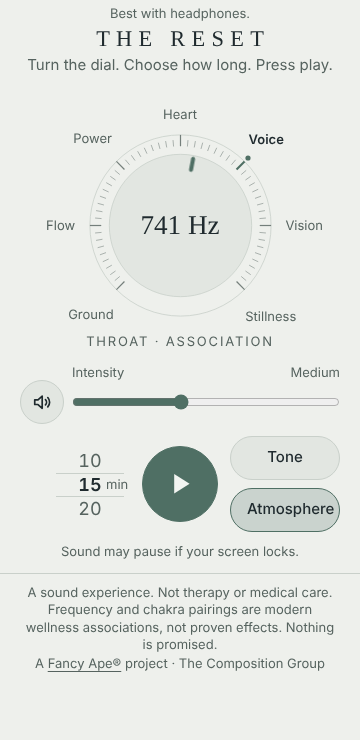
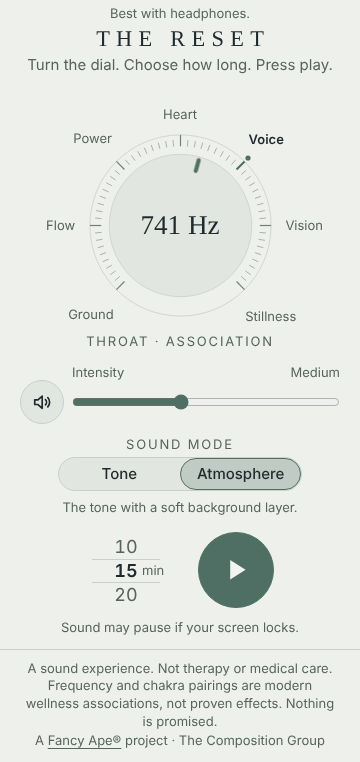
Sound mode: slim segmented control under Intensity with caption; bottom row is wheel and Play
Claude-Session: https://claude.ai/code/session_01GARUu4aZWZHH9xWAKDJbQb

diff --git a/index.html b/index.html
@@ -86,9 +86,9 @@ button{cursor:pointer}
 .icon-btn{width:2.75rem;height:2.75rem;flex:none;border:1px solid var(--line);background:var(--surface);border-radius:50%;display:grid;place-items:center;padding:0}
 .icon-btn svg{width:1.4rem;height:1.4rem}
 .icon-btn[data-muted="true"]{border-color:var(--accent);background:color-mix(in srgb,var(--accent) 22%,transparent)}
-.transport{display:grid;grid-template-columns:1fr auto 1fr;align-items:center;gap:.75rem;margin-top:var(--sp)}
+.transport{display:flex;justify-content:center;align-items:center;gap:2rem;margin-top:calc(var(--sp) * 1.4)}
 /* time wheel: three visible rows (one faded value above and below), as tall as the row it sits in. The box itself has 12px of invisible padding top and bottom (cancelled by negative margins) so each half is a 44px touch target. */
-.wheel{--rh:1.5rem;--pad:12px;justify-self:end;position:relative;width:5rem;height:calc(var(--rh) * 3 + var(--pad) * 2);margin:calc(var(--pad) * -1) 0;border-radius:.6rem;touch-action:none;user-select:none;-webkit-user-select:none;-webkit-tap-highlight-color:transparent;cursor:ns-resize;font-variant-numeric:tabular-nums}
+.wheel{--rh:1.5rem;--pad:12px;flex:none;position:relative;width:5rem;height:calc(var(--rh) * 3 + var(--pad) * 2);margin:calc(var(--pad) * -1) 0;border-radius:.6rem;touch-action:none;user-select:none;-webkit-user-select:none;-webkit-tap-highlight-color:transparent;cursor:ns-resize;font-variant-numeric:tabular-nums}
 .wheel:focus-visible{outline:none}
 .wheel:focus-visible .wview{outline:2px solid var(--brass);outline-offset:3px;border-radius:.6rem}
 .wview{position:absolute;inset:var(--pad) 0;overflow:hidden;border-top:1px solid transparent}
@@ -106,10 +106,13 @@ button{cursor:pointer}
 .play svg{width:2.1rem;height:2.1rem}
 .playwrap{position:relative;width:5.5rem;height:5.5rem}
 .play{position:relative}
-.modes{display:grid;gap:.5rem;justify-self:start}
-/* narrow screens: the sound toggles go under Play instead of beside it */
-@media (max-width:359px){.modes{grid-column:1/-1;grid-row:2;grid-auto-flow:column;justify-self:center}}
-.btn{border:1px solid var(--line);background:var(--surface);border-radius:999px;padding:.5rem 1.1rem;min-height:2.75rem;font-weight:500}
+/* sound mode: a slim segmented control. The buttons are 32px tall to look light, with an invisible 7px above and below (the buttons have a 1px border, so 30 + 14 = 44) so each tap area is 44px. */
+.soundmode{margin-top:var(--sp);text-align:center}
+.segctl{display:inline-grid;grid-template-columns:1fr 1fr;margin-top:.3rem;border:1px solid var(--line);border-radius:999px;background:var(--surface)}
+.segctl button{position:relative;z-index:1;min-width:6.5rem;height:2rem;border:1px solid transparent;border-radius:999px;background:none;padding:0 1rem;font-size:.9375rem;font-weight:500;color:var(--ink)}
+.segctl button::after{content:"";position:absolute;left:0;right:0;top:-7px;bottom:-7px}
+.segctl button[aria-checked="true"]{border-color:var(--accent);background:color-mix(in srgb,var(--accent) 22%,transparent)}
+.modecap{margin:.5rem 0 0;font-size:.8125rem;line-height:1.3;color:var(--muted);min-height:1.05rem}.btn{border:1px solid var(--line);background:var(--surface);border-radius:999px;padding:.5rem 1.1rem;min-height:2.75rem;font-weight:500}
 .btn[aria-pressed="true"]{border-color:var(--accent);background:color-mix(in srgb,var(--accent) 22%,transparent)}
 .btn.primary{background:var(--accent);color:var(--accent-ink);border-color:var(--accent)}
 .btn:disabled{opacity:.5;cursor:default}
@@ -199,6 +202,15 @@ footer a{color:inherit;text-underline-offset:.2em;display:inline-block;min-heigh
       </div>
     </div>
 
+    <div class="soundmode">
+      <div class="chakra" id="modeLabel">SOUND MODE</div>
+      <div class="segctl" id="modes" role="radiogroup" aria-labelledby="modeLabel" aria-describedby="modeCap">
+        <button role="radio" data-v="tone">Tone</button>
+        <button role="radio" data-v="atmosphere">Atmosphere</button>
+      </div>
+      <p class="modecap" id="modeCap"></p>
+    </div>
+
     <div class="transport">
       <div class="wheel" id="wheel" tabindex="0">
         <div class="wview" aria-hidden="true"><div class="wtrack" id="wTrack"></div></div>
@@ -209,10 +221,6 @@ footer a{color:inherit;text-underline-offset:.2em;display:inline-block;min-heigh
       <button class="play" id="playBtn" aria-label="Play">
         <svg viewBox="0 0 24 24" fill="currentColor" aria-hidden="true"><path id="playIcon" d="M8 5v14l11-7z"/></svg>
       </button></div>
-      <div class="modes" id="modes" role="radiogroup" aria-label="Sound">
-        <button class="pill" role="radio" data-v="tone">Tone</button>
-        <button class="pill" role="radio" data-v="atmosphere">Atmosphere</button>
-      </div>
     </div>
 
     <div class="extras" id="extras" hidden>
@@ -469,7 +477,10 @@ wheelEl.addEventListener("keydown", e => {
   else if (k === "Home"){ wheelTo(0); moved = true; } else if (k === "End"){ wheelTo(WN); moved = true; }
   if (moved !== null) e.preventDefault();
 });
-radioGroup("modes", () => st.mode, v => { if (v === st.mode) return; st.mode = v; store.set("mode", v); requestVoice(); });
+const MODE_CAP = { tone:"A single pure tone.", atmosphere:"The tone with a soft background layer." };
+const paintMode = () => { $("modeCap").textContent = MODE_CAP[st.mode]; };
+radioGroup("modes", () => st.mode, v => { if (v === st.mode) return; st.mode = v; store.set("mode", v); paintMode(); requestVoice(); });
+paintMode();
 
 /* ---------- sound (Web Audio, generated here; no audio files) ---------- */
 const AC = window.AudioContext || window.webkitAudioContext;

diff --git a/CLAUDE.md b/CLAUDE.md
@@ -48,7 +48,7 @@ These rules apply to every change to `index.html`, `README.md`, and `docs/`. If 
 
 ## Product principles to preserve
 - Calm instrument panel: thin tick marks, a short knob-style pointer on the rim of the dial (the centre stays clear), a soft glow around the dial when active (nothing glows around Play). No steampunk, fake wear, or gimmicks.
-- One screen, top to bottom: a small "Best with headphones." line at the very top, the title and instruction line, dial (the Hz value large in its centre, updating as it turns), one readout line under it ("SACRAL · ASSOCIATION"), intensity, and one bottom row: time wheel, Play, and the Tone / Atmosphere toggles stacked beside Play (under Play on screens narrower than 360 px), all centred on Play. The time is a rolling wheel (5, 10, 15, 20, 30, 45, 60, ∞; default 15). While playing, the wheel locks and shows the live clock in the same box, Stop and +5 min (one row) and Facts (the next row) appear below Play, and the fact line / "Extend? +5" prompt share one reserved slot below Play so nothing overlaps a control, and "Sound may pause if your screen locks." closes the main area above the footer divider. The fact line is italic serif. Copy stays minimal. Rolling fact lines are only these kinds, each worded as what it is: physics, tradition (say modern chakra charts and that sources disagree; Hz-to-chakra pairings are not traditional), invitation. All of that text and the closing lines live in the `COPY` block in `index.html`. The end screen appears only after a timed completion, or after stopping ∞ at 5 minutes or more, never after an early Stop on a timed session or Escape. ∞ plays until Pause or Stop and counts up; the log keeps the actual minutes played.
+- One screen, top to bottom: a small "Best with headphones." line at the very top, the title and instruction line, dial (the Hz value large in its centre, updating as it turns), one readout line under it ("SACRAL · ASSOCIATION"), intensity, a "SOUND MODE" label with a slim Tone | Atmosphere segmented control (radiogroup, arrow keys switch; 44 px tap area) and a one-line caption that follows the selection, and one bottom row: the time wheel and Play, centred. The time is a rolling wheel (5, 10, 15, 20, 30, 45, 60, ∞; default 15). While playing, the wheel locks and shows the live clock in the same box, Stop and +5 min (one row) and Facts (the next row) appear below Play, and the fact line / "Extend? +5" prompt share one reserved slot below Play so nothing overlaps a control, and "Sound may pause if your screen locks." closes the main area above the footer divider. The fact line is italic serif. Copy stays minimal. Rolling fact lines are only these kinds, each worded as what it is: physics, tradition (say modern chakra charts and that sources disagree; Hz-to-chakra pairings are not traditional), invitation. All of that text and the closing lines live in the `COPY` block in `index.html`. The end screen appears only after a timed completion, or after stopping ∞ at 5 minutes or more, never after an early Stop on a timed session or Escape. ∞ plays until Pause or Stop and counts up; the log keeps the actual minutes played.
 - Animate only opacity and transform. No animated blur, shadow, filter, or stroke, so cheap phones stay smooth. The glow takes the active stop's color.
 - The answer counts are shown as they are. Never hide or soften a "Worse" count.
 - Stop signal: when 3 or more of the last 12 saved sessions are "Worse", a quiet notice shows on the dial screen and the end screen. It has no dismiss button and is never softened or hidden. Only answered sessions are saved, so only they count.

diff --git a/CHANGELOG.md b/CHANGELOG.md
@@ -2,6 +2,7 @@
 
 ## v0.4.0 — v-next (unreleased)
 Builds on v0.3.0 (the dial).
+- Changed (v-next.4, sound mode): the stacked Tone / Atmosphere pills beside Play are replaced by a "SOUND MODE" label and a slim Tone | Atmosphere segmented control under Intensity (radiogroup with aria-checked; arrow keys switch segments; 32 px look, 44 px tap area) with a caption under it ("A single pure tone." / "The tone with a soft background layer."). The bottom row is now just [time wheel] [Play], centered, with more space around Play. "Best with headphones." appears only at the top.
 - Changed (v-next.4, visual redesign; appearance and layout only): "Best with headphones." is now a small muted line at the very top. The dial's ring now scales so the seven labels always sit a fixed distance outside it and inside the screen, with the selection dot, tick, label and rim pointer on one line and no label touching another; the dial and its labels are measured to avoid overlap at every size. One association line sits close under the dial, then Intensity (speaker, track and both labels on one grid), then the playback row. Tone / Atmosphere are equal-width pills; while playing, Stop and +5 min share one row and Facts has its own row; the fact line is italic serif under them. "Sound may pause if your screen locks." ends the main area on one line above the footer divider, and the footer is more compact (text unchanged; "Fancy Ape®" is the underlined link). Removed the pulsing stop-colored halo around Play (decorative, not progress; the glow around the dial stays). Small text now meets 4.5:1: the association line uses the full muted color and the faded wheel values use the muted color instead of faded ink. The time wheel no longer slides in from 5 on page load. Everything else is unchanged.
 - Changed (v-next.3, layout): the header is one line, "Turn the dial. Choose how long. Press play." The center-to-edge needle is now a short knob-style pointer on the dial's rim, so the center is clear, and the Hz value ("417 Hz") is shown large in the center of the dial and updates as the dial turns. Under the dial there is one line, "SACRAL · ASSOCIATION" (the large mode name is gone; it is the bold label on the dial). The bottom row is now [time wheel] [Play] [Tone / Atmosphere stacked], all centered on Play with 44 px toggles; on screens narrower than 360 px the toggles sit under Play instead. **Stop** moved to the row under Play (Stop, +5 min, Facts) while playing, so the toggles can stay in place. The dial's `aria-valuetext` is now "Flow, 417 hertz, sacral association" (matches the visible readout).
 - New: tab icon. Three inline PNG icon links (32×32, 16×16, apple-touch 180×180, as `data:` URLs, so nothing is fetched and there are no asset files) and `theme-color` for light (#EEF0EC) and dark (#141B1E), matching the page background.
